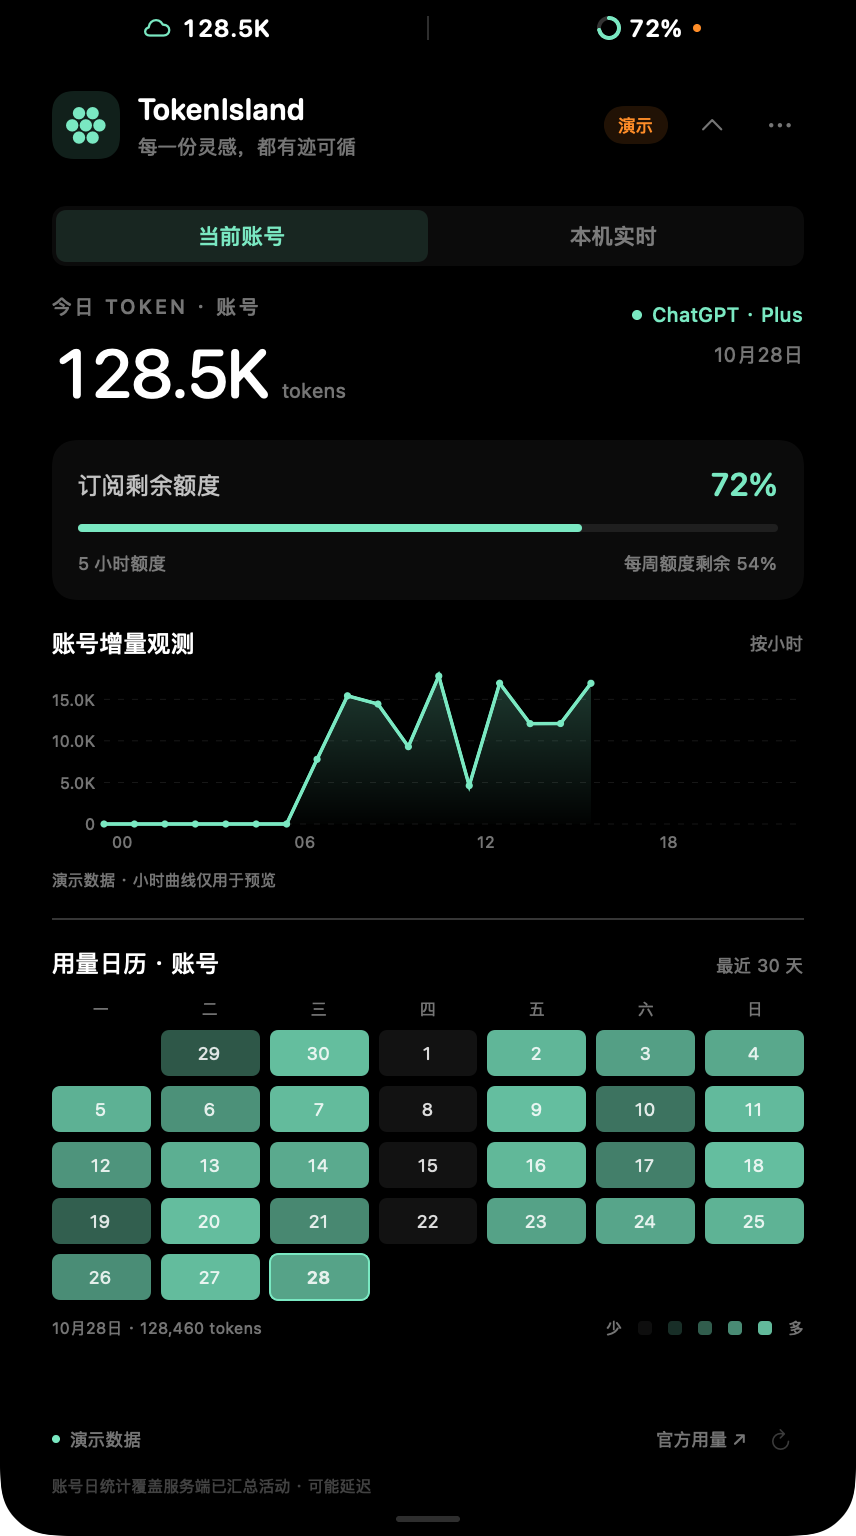
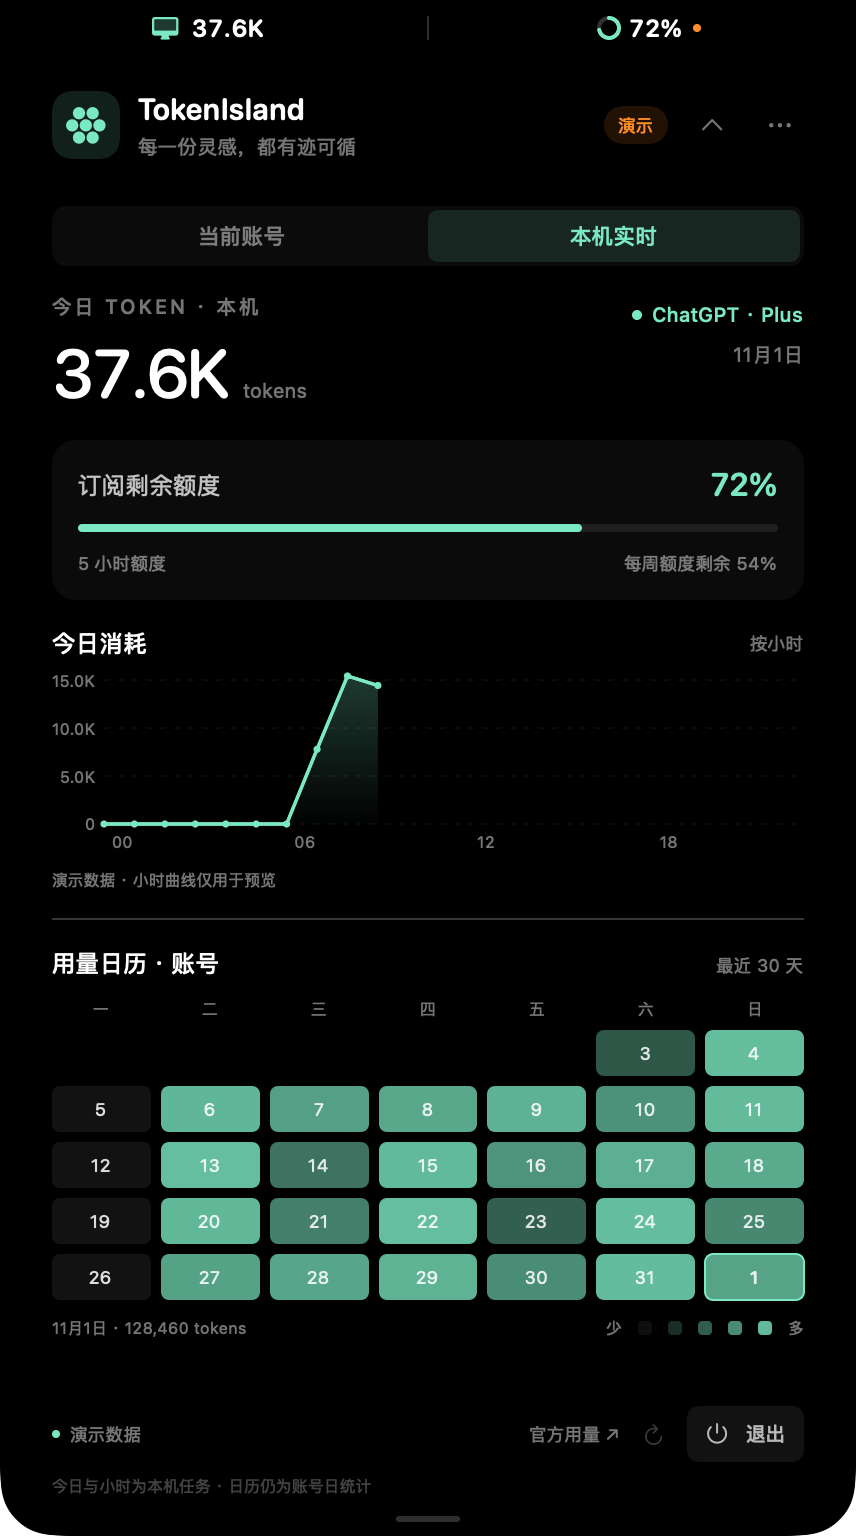
Add visible quit button to expanded island

diff --git a/Sources/TokenIsland/IslandView.swift b/Sources/TokenIsland/IslandView.swift
@@ -351,6 +351,15 @@ struct IslandView: View {
                 Button { Task { await store.refresh() } } label: {
                     Image(systemName: "arrow.clockwise").font(.system(size: 10)).foregroundStyle(secondaryInk).frame(width: 23, height: 23)
                 }.buttonStyle(.plain).disabled(store.isRefreshing || store.isDemo).help("刷新用量")
+                Button { NSApplication.shared.terminate(nil) } label: {
+                    Label("退出", systemImage: "power")
+                        .font(.system(size: 10, weight: .medium))
+                        .foregroundStyle(.white.opacity(0.7))
+                        .padding(.horizontal, 9).frame(height: 28)
+                        .background(.white.opacity(0.07), in: RoundedRectangle(cornerRadius: 6))
+                        .contentShape(Rectangle())
+                }.buttonStyle(.plain).help("退出 TokenIsland")
+                    .accessibilityLabel("退出 TokenIsland")
             }
             if store.snapshot != nil {
                 Text(store.sourceNote)

diff --git a/README.md b/README.md
@@ -24,6 +24,7 @@
 - 每分钟刷新、唤醒后刷新；断网时标出错误并保留上次同步时间。
 - 支持开机自启：菜单栏或灵动岛“更多”菜单中勾选“开机自启”，再次点击即可关闭；使用 macOS 原生登录项，状态与系统设置一致。
 - 菜单栏提供刷新、登录、打开 ChatGPT、官方用量、演示与退出。
+- 灵动岛展开界面底部提供独立“退出”按钮，点击即可关闭 TokenIsland，连接中或未登录时也可使用。
 
 ## 开机自启
 
